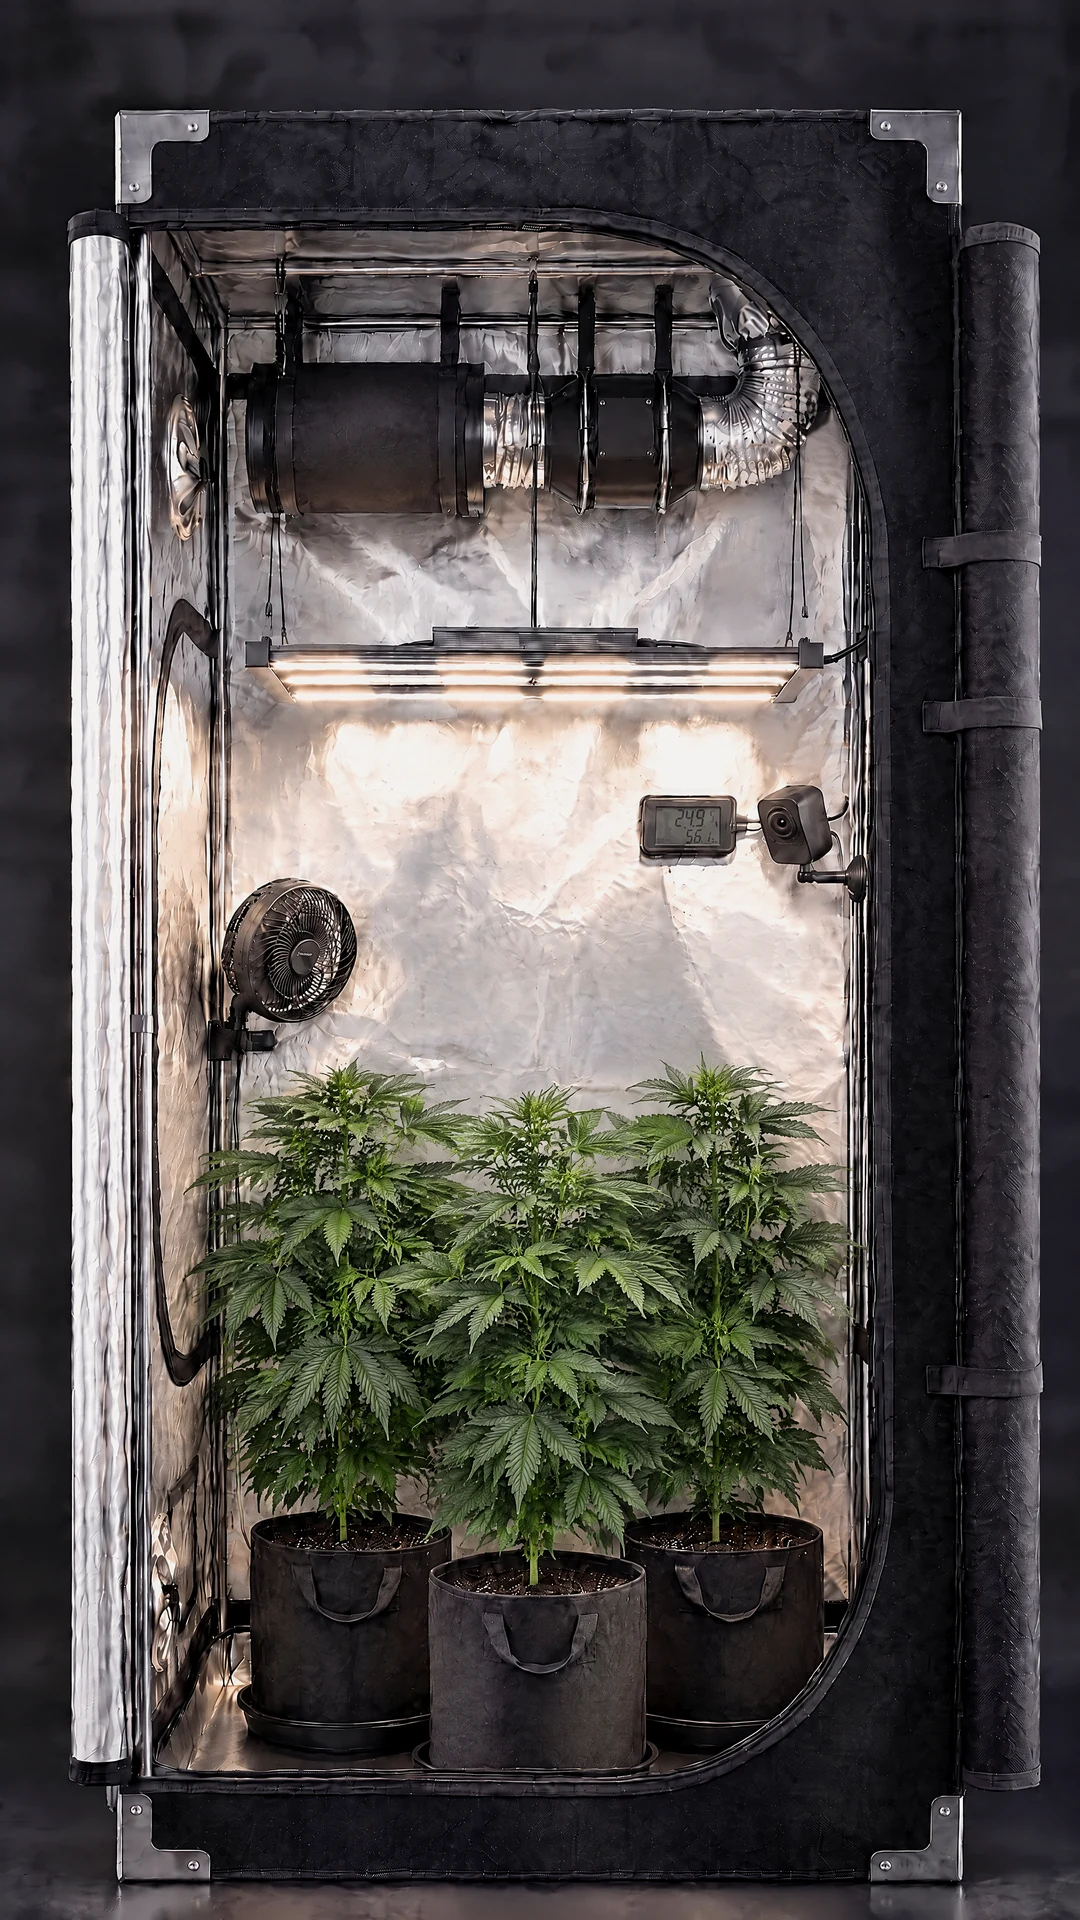
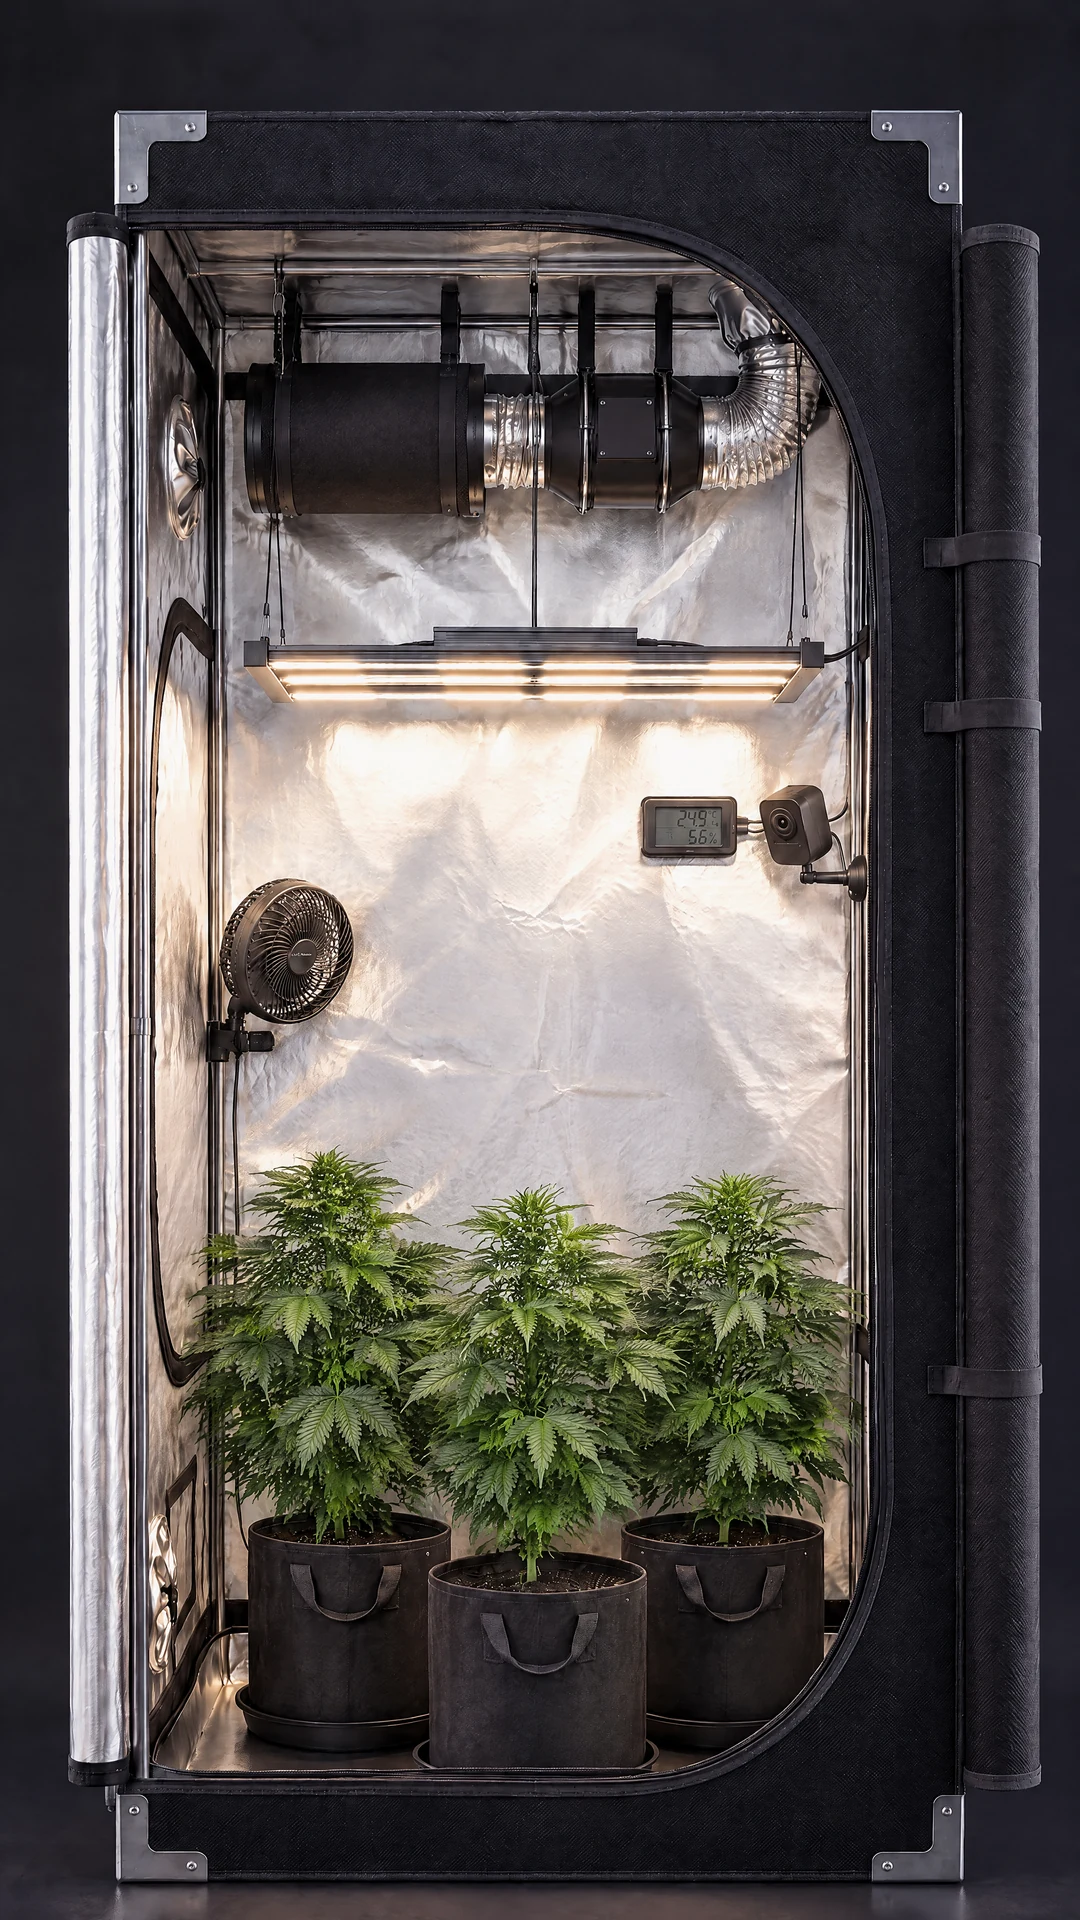
Etapas en primera generación: base nítida + plantas de la cadena como guía; variantes, sed y noches derivadas de ellas. Se acabó la degradación por cadena

diff --git a/app/src/lib.ts b/app/src/lib.ts
@@ -209,7 +209,7 @@ const HAVE = new Set([
 // funciona igual en raíz (localhost, Vercel) que bajo subcarpeta (GitHub Pages)
 // ?v=N fuerza la descarga cuando se reemplazan fotos con el mismo nombre (el navegador
 // del teléfono las guarda en caché); súbelo cada vez que cambie el set
-const IMG_V = '?v=3'
+const IMG_V = '?v=4'
 const A = (name: string) => `${import.meta.env.BASE_URL}assets/${name}.webp${IMG_V}`
 
 // imagen de las semillas en remojo (vaso de agua), según nº de semillas y si ya brotaron

diff --git a/fotos_4k/compose.py b/fotos_4k/compose.py
@@ -1,0 +1,26 @@
+# Compone cada etapa sobre la BASE nítida: la carpa y el equipo salen siempre de la base
+# (primera generación), y de la foto encadenada solo se toma lo que cambia (las plantas),
+# detectado por diferencia de color respecto a la base, con borde suavizado.
+import sys, os, numpy as np
+from PIL import Image, ImageFilter
+os.makedirs('composed', exist_ok=True)
+def load(p): return np.asarray(Image.open(p).convert('RGB')).astype(np.float32)
+def blur(a, r): return np.asarray(Image.fromarray(np.clip(a, 0, 255).astype(np.uint8)).filter(ImageFilter.GaussianBlur(r))).astype(np.float32)
+def compose(name, base_name, thr=30):
+    base = load(f'raw/{base_name}.png')
+    src = load(f'color/{name}.png') if os.path.exists(f'color/{name}.png') else load(f'raw/{name}.png')
+    H, W, _ = base.shape
+    d = np.abs(blur(src, 4) - blur(base, 4)).max(axis=2)          # diferencia por píxel (suavizada)
+    m = (d > thr).astype(np.float32)
+    # solo dentro de la abertura de la puerta: fuera, la base manda siempre
+    win = np.zeros((H, W), np.float32); win[int(H*0.08):int(H*0.965), int(W*0.10):int(W*0.83)] = 1
+    m *= win
+    m = blur(m * 255, 10) / 255; m = (m > 0.35).astype(np.float32)   # cierra huecos entre hojas
+    m = blur(m * 255, 14) / 255                                     # pluma del borde
+    m3 = m[..., None]
+    out = base * (1 - m3) + src * m3
+    Image.fromarray(np.clip(out, 0, 255).astype(np.uint8)).save(f'composed/{name}.png')
+    print(f'{name:18s} base={base_name:14s} plantas={m.mean()*100:.1f}% del cuadro')
+if __name__ == '__main__':
+    pairs = [a.split('=') for a in sys.argv[1:]]
+    for name, b in pairs: compose(name, b)
